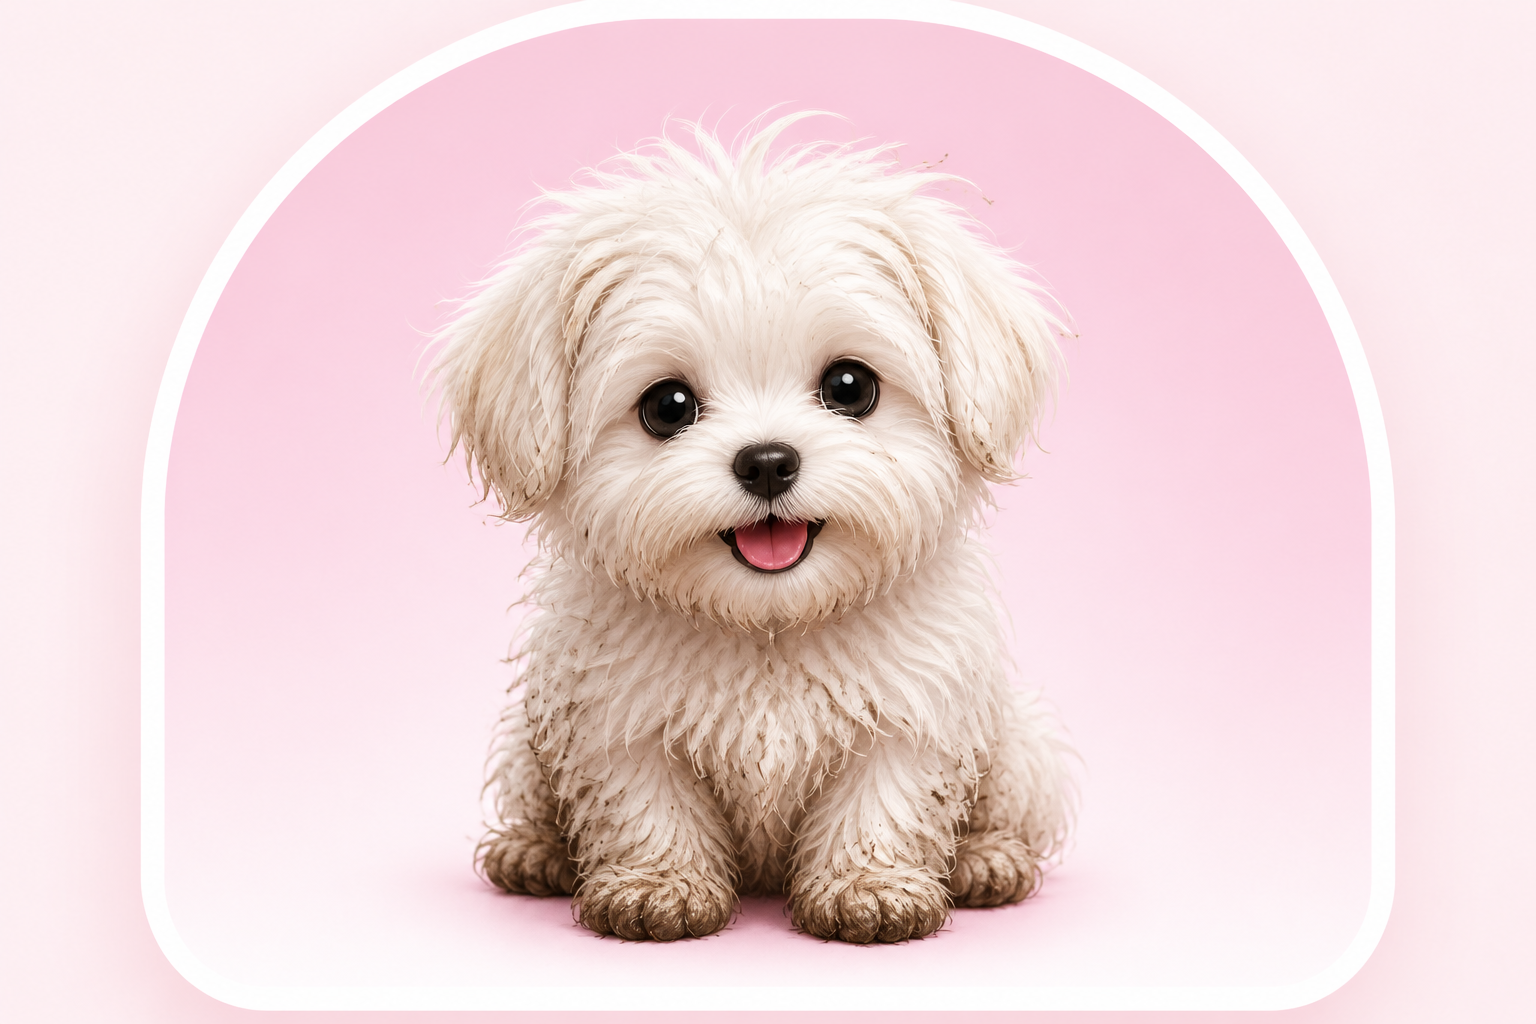
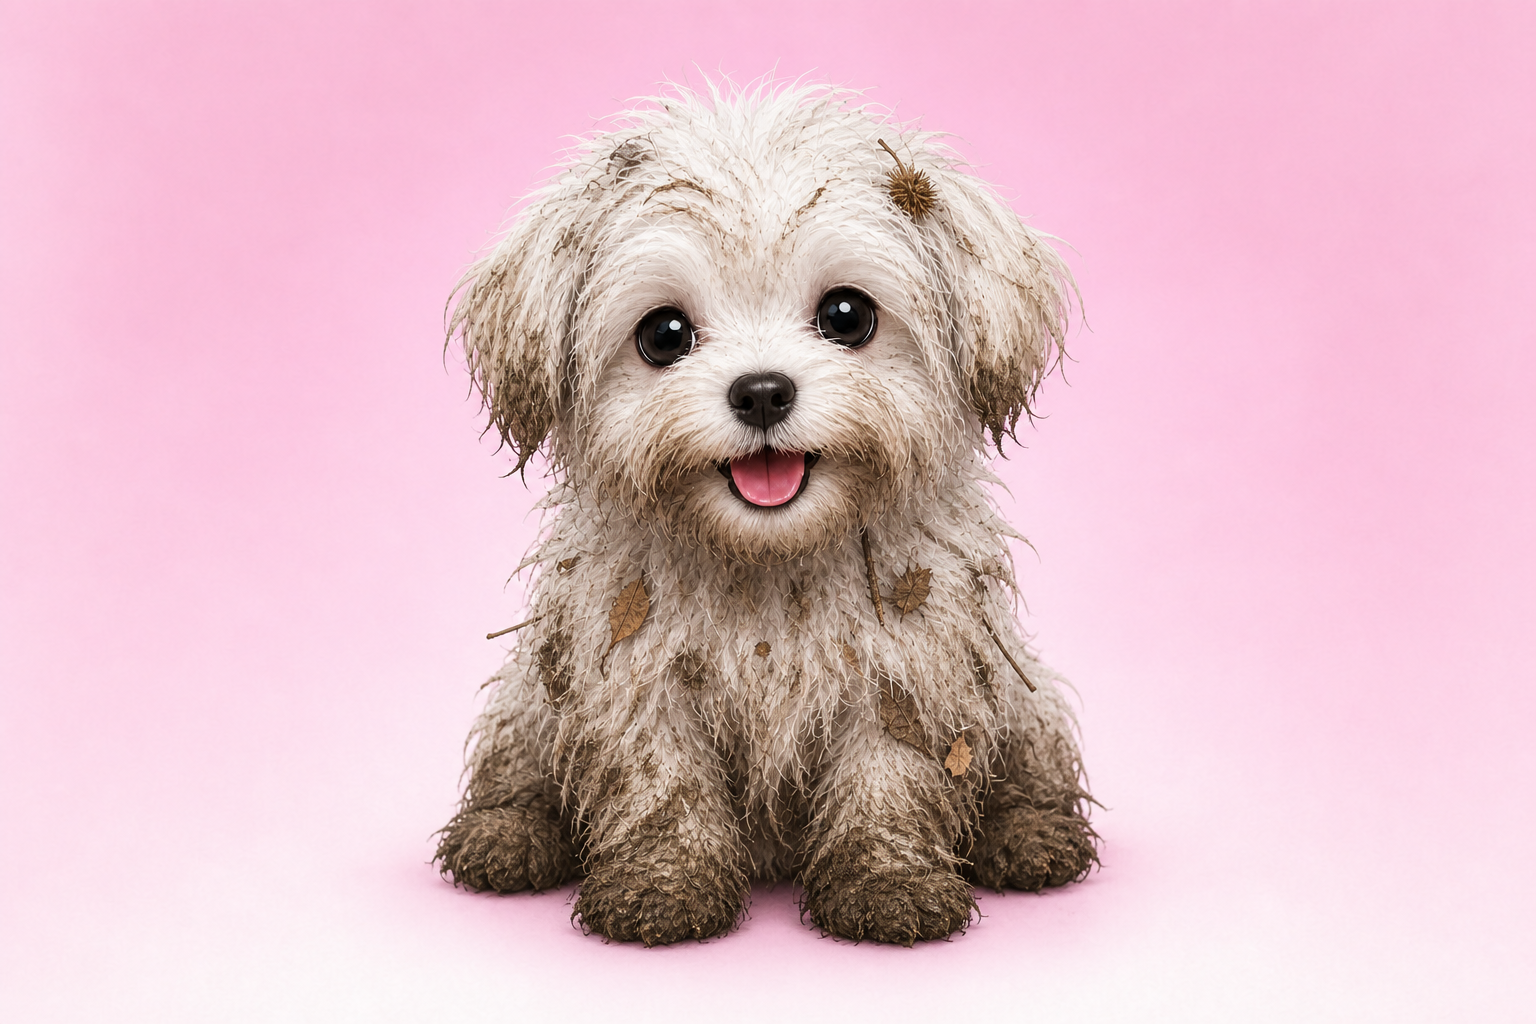
Differentiate dirty puppy and strengthen dance (#6)

diff --git a/app/globals.css b/app/globals.css
@@ -196,7 +196,8 @@ footer { display:none; }
 
 /* Animated ballroom finale */
 .dancing-finale{overflow:hidden;background:#46143f}.dancing-finale .finale-scene{transform-origin:52% 68%;animation:ballroom-dance 4.2s ease-in-out infinite alternate}.dancing-finale .finale-shade{background:linear-gradient(180deg,transparent 35%,rgba(35,6,35,.78))}.dance-magic{position:absolute;z-index:3;inset:0;pointer-events:none}.dance-magic i{position:absolute;color:#fff4b0;font-style:normal;font-size:30px;text-shadow:0 0 16px #fff;animation:dance-sparkle 3s ease-in-out infinite}.dance-magic i:nth-child(1){left:12%;top:20%}.dance-magic i:nth-child(2){left:27%;top:42%;animation-delay:-1.1s}.dance-magic i:nth-child(3){right:12%;top:16%;animation-delay:-2s}.dance-magic i:nth-child(4){right:26%;top:38%;animation-delay:-.6s}.dance-magic i:nth-child(5){left:52%;top:10%;animation-delay:-1.7s}@keyframes ballroom-dance{0%{transform:scale(1.04) translateX(-9px) rotate(-.35deg)}100%{transform:scale(1.1) translateX(9px) rotate(.35deg)}}@keyframes dance-sparkle{0%,100%{opacity:.25;transform:translateY(18px) scale(.7)}50%{opacity:1;transform:translateY(-18px) scale(1.2)}}
-.dancing-finale .finale-puppy{transform-origin:50% 100%;animation:puppy-ball-dance 1.15s ease-in-out infinite alternate}.dancing-finale .finale-puppy img{animation:puppy-tail-wag .55s ease-in-out infinite alternate}.dancing-finale .finale-puppy:before,.dancing-finale .finale-puppy:after{content:"♪";position:absolute;z-index:5;top:8%;color:#f02987;font-size:25px;text-shadow:0 0 9px white;animation:dance-note 1.4s ease-out infinite}.dancing-finale .finale-puppy:before{left:8%}.dancing-finale .finale-puppy:after{content:"♫";right:8%;animation-delay:-.7s}@keyframes puppy-ball-dance{0%{transform:translateY(2px) rotate(-5deg)}55%{transform:translateY(-13px) rotate(2deg)}100%{transform:translateY(0) rotate(6deg)}}@keyframes puppy-tail-wag{from{object-position:46% 17%}to{object-position:54% 17%}}@keyframes dance-note{0%{opacity:0;transform:translateY(18px) scale(.7)}55%{opacity:1}100%{opacity:0;transform:translateY(-28px) scale(1.15)}}
+.dancing-finale .finale-puppy{width:220px;height:220px;transform-origin:50% 100%;animation:puppy-ball-dance 1.25s cubic-bezier(.45,.05,.55,.95) infinite alternate;box-shadow:0 18px 42px rgba(35,3,38,.6),0 0 0 5px rgba(255,112,181,.5)}.dancing-finale .finale-puppy img{animation:puppy-groove .48s ease-in-out infinite alternate}.dancing-finale .finale-puppy:before,.dancing-finale .finale-puppy:after{content:"♪";position:absolute;z-index:5;top:8%;color:#f02987;font-size:30px;text-shadow:0 0 9px white;animation:dance-note 1.4s ease-out infinite}.dancing-finale .finale-puppy:before{left:8%}.dancing-finale .finale-puppy:after{content:"♫";right:8%;animation-delay:-.7s}@keyframes puppy-ball-dance{0%{transform:translateX(0) translateY(6px) rotate(-8deg)}45%{transform:translateX(42px) translateY(-26px) rotate(3deg)}100%{transform:translateX(88px) translateY(1px) rotate(9deg)}}@keyframes puppy-groove{from{transform:scale(1.5) rotate(-2deg)}to{transform:scale(1.62) rotate(2deg)}}@keyframes dance-note{0%{opacity:0;transform:translateY(18px) scale(.7)}55%{opacity:1}100%{opacity:0;transform:translateY(-38px) scale(1.25)}}
+@media(max-width:780px){.dancing-finale .finale-puppy{width:125px;height:125px}.dancing-finale .finale-puppy:before,.dancing-finale .finale-puppy:after{font-size:20px}@keyframes puppy-ball-dance{0%{transform:translateX(0) translateY(4px) rotate(-8deg)}50%{transform:translateX(24px) translateY(-16px) rotate(2deg)}100%{transform:translateX(48px) translateY(0) rotate(9deg)}}}
 
 /* Memory-style second game */
 .score small{display:block;color:#a86898;font-size:9px}.memory-jewels{grid-template-columns:repeat(4,1fr);max-width:600px}.memory-jewels button{position:relative;overflow:hidden;transform-style:preserve-3d;transition:transform .28s,box-shadow .28s;background:linear-gradient(145deg,#6e36bd,#c95bd0);color:white}.memory-jewels button span{display:grid;place-items:center;position:absolute;inset:0;font-size:34px;text-shadow:0 0 13px #fff}.memory-jewels button b{display:none;font-size:35px}.memory-jewels button.revealed{transform:rotateY(180deg);background:linear-gradient(145deg,#fff,#ffe2f2);box-shadow:0 0 0 3px #f4bf58,0 8px 20px rgba(74,22,107,.22)}.memory-jewels button.revealed span{display:none}.memory-jewels button.revealed b{display:block;transform:rotateY(180deg)}.memory-jewels button.matched{opacity:.7;box-shadow:0 0 20px #fff3a8}.goal>span{display:inline-flex;gap:3px;margin-left:8px}.goal i{color:#ffffff55;font-style:normal}.goal i.lit{color:#ffe26b;text-shadow:0 0 10px white}@media(max-width:520px){.memory-jewels{grid-template-columns:repeat(3,1fr)}.memory-jewels button{width:62px;height:58px}}
